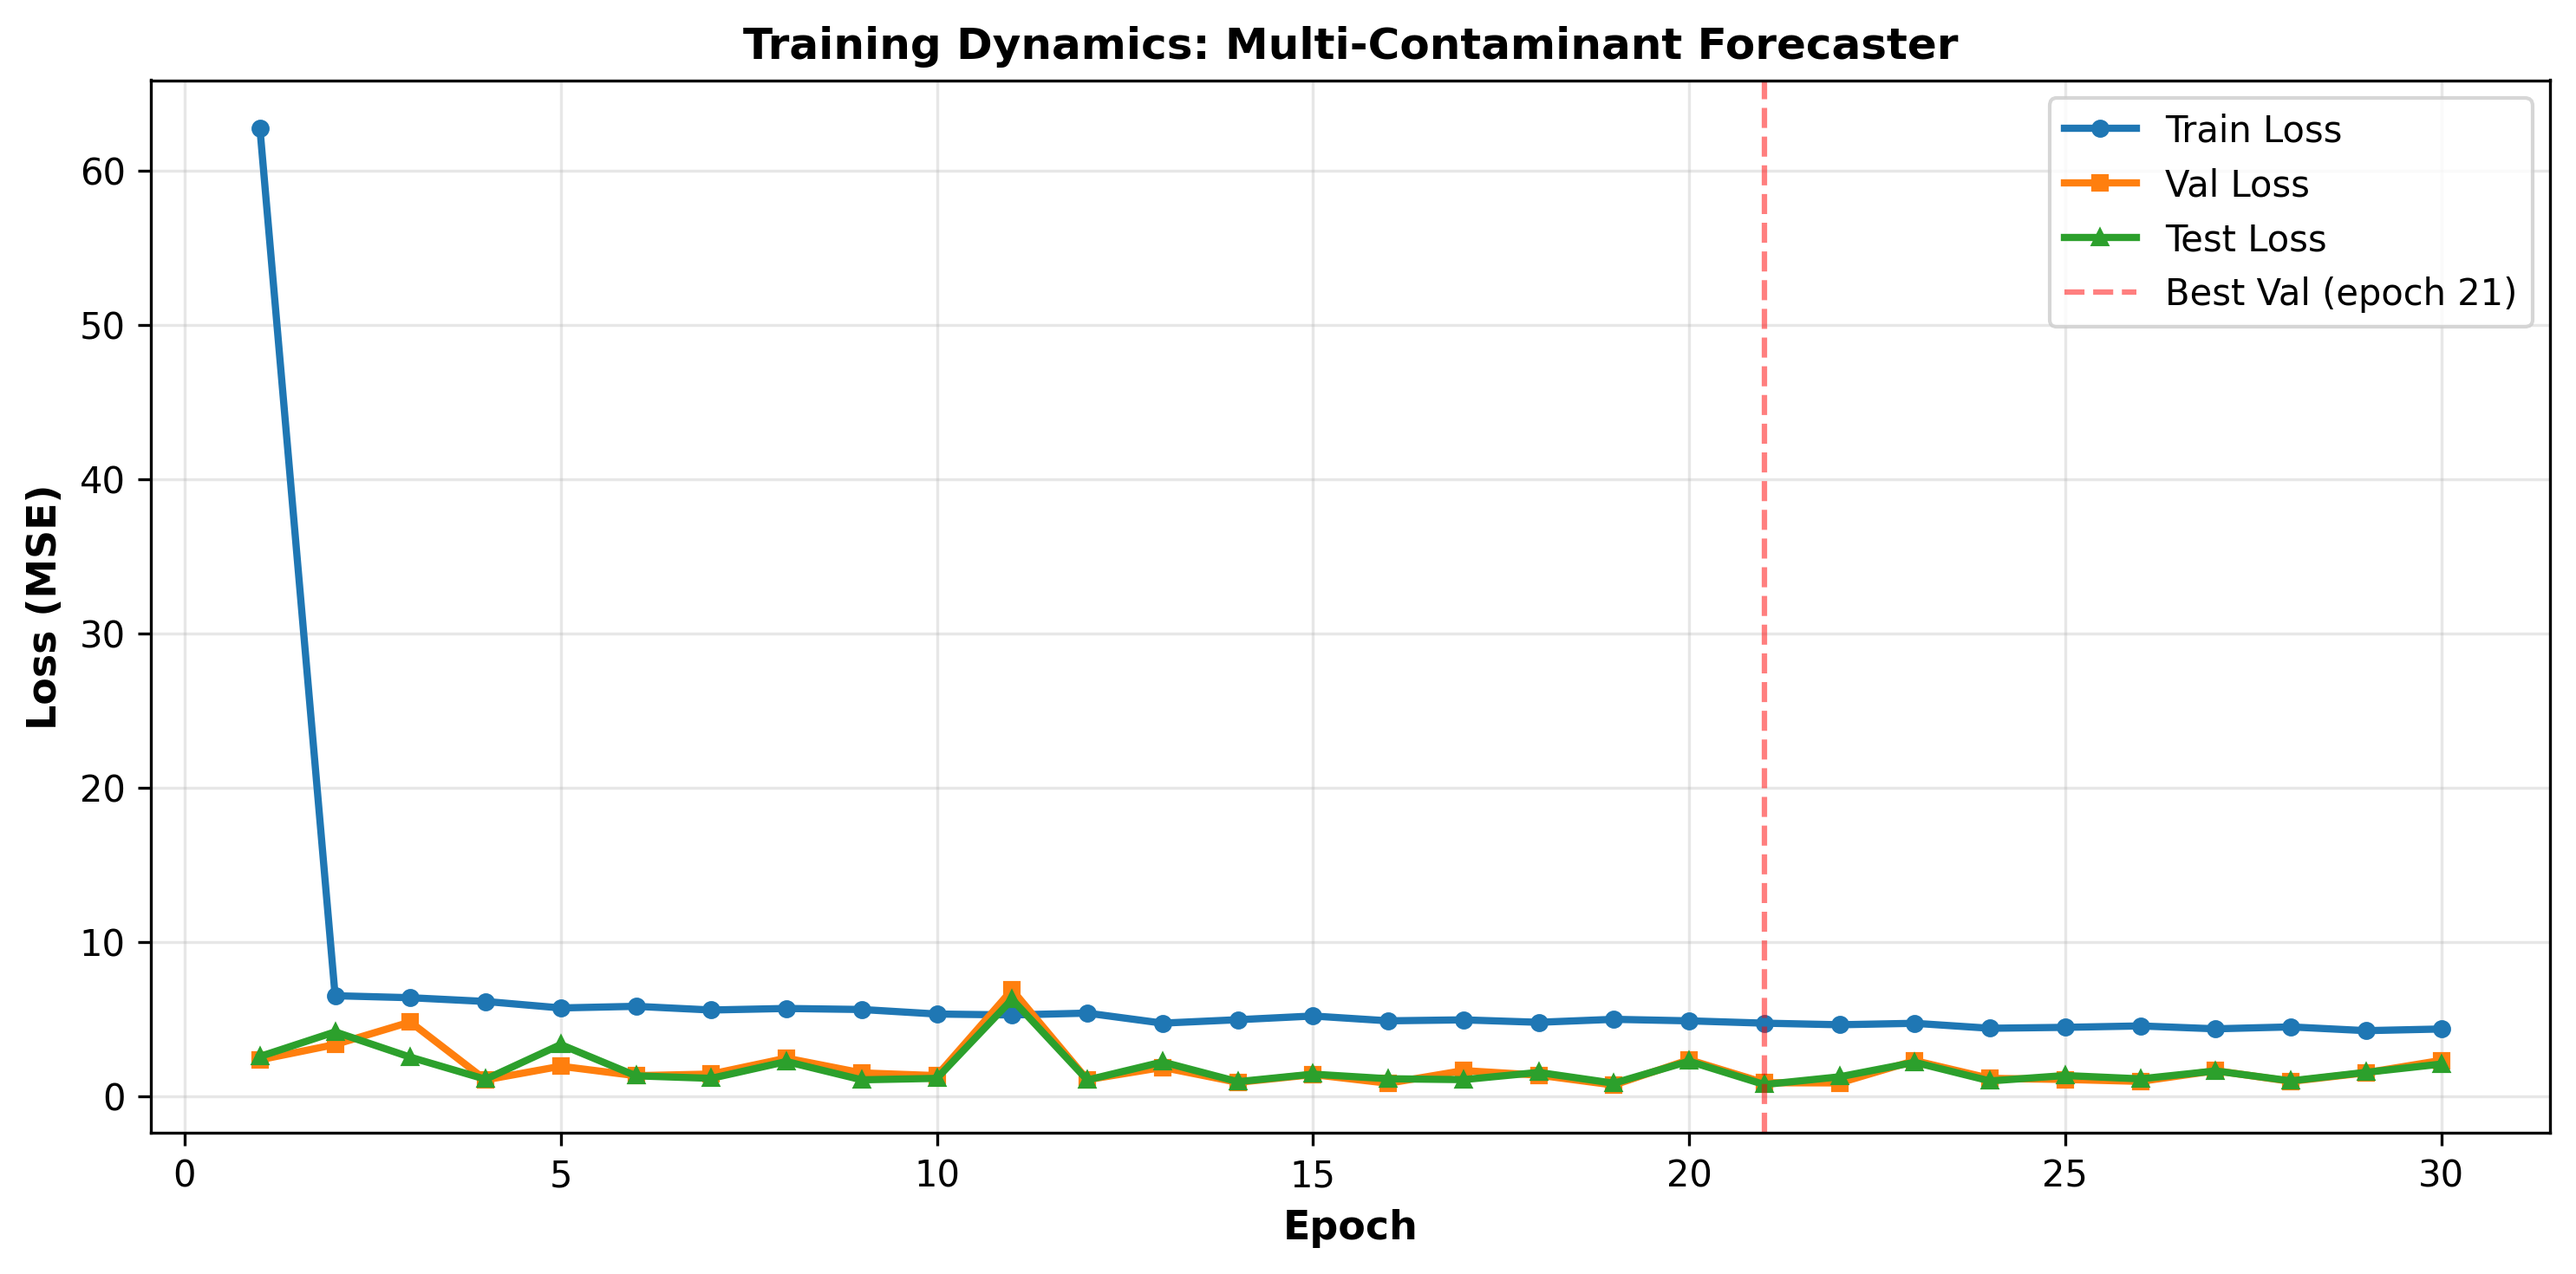
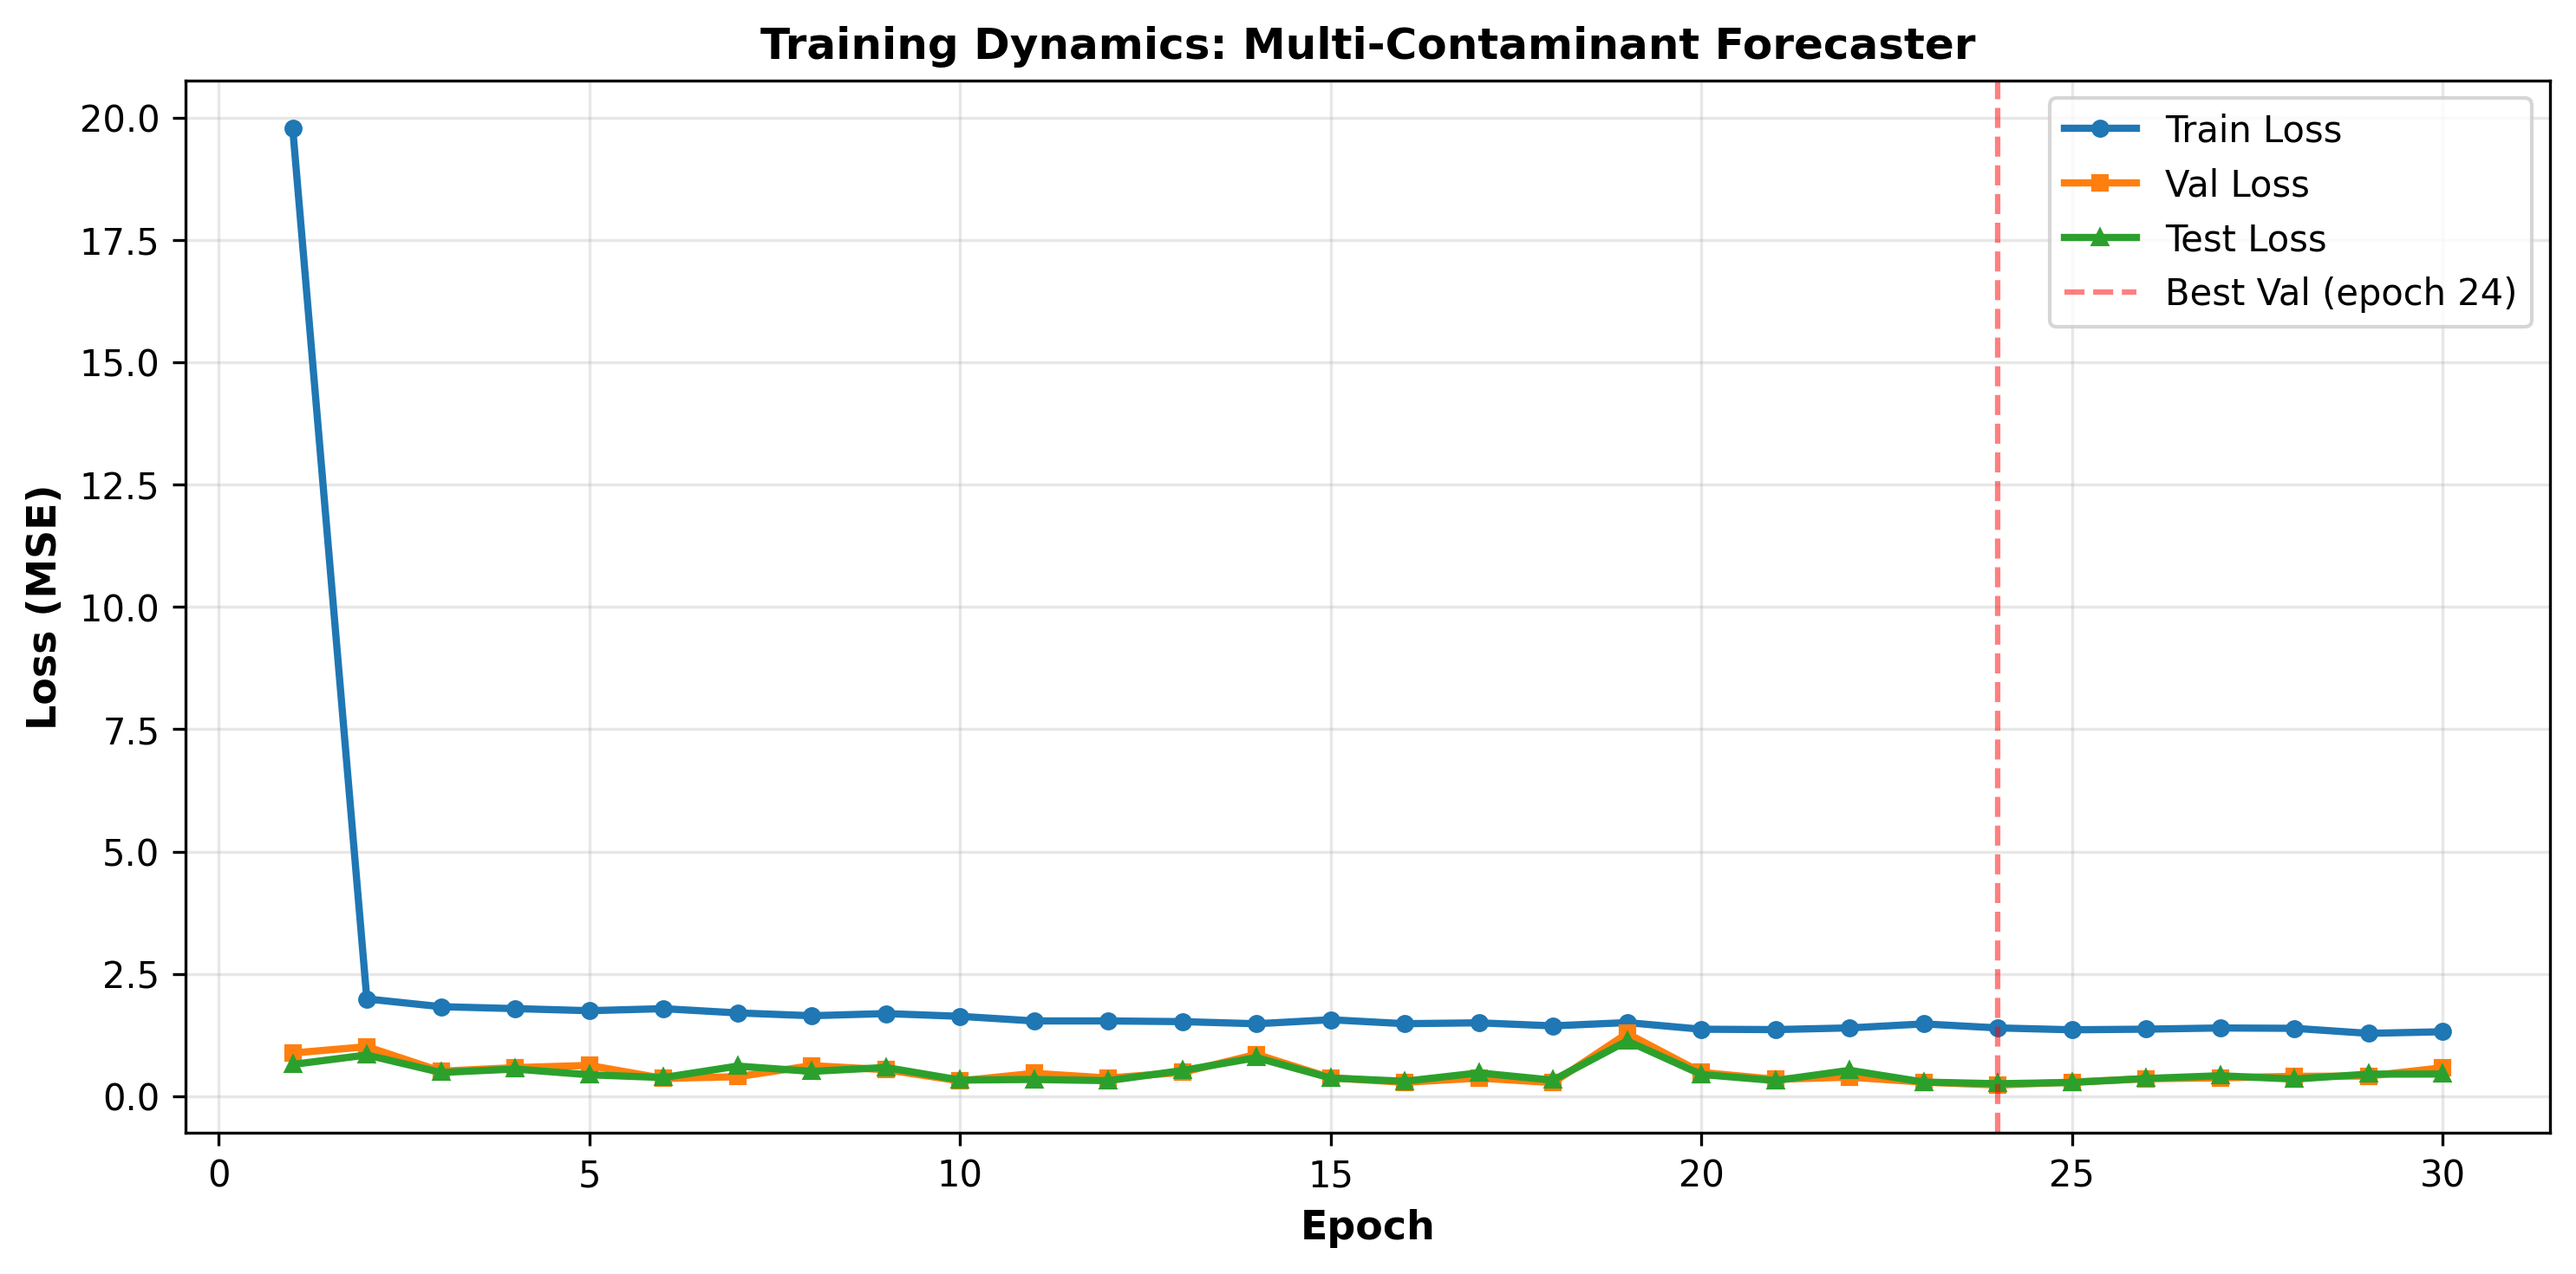
++ use 3 pollutants for backprop error

diff --git a/data.py b/data.py
@@ -78,7 +78,18 @@ def make_synthetic_watershed_multicontaminant(B: int, T: int, F: int, S: int, se
         y_q[:, k] = np.maximum(y_q[:, k], 0.0)
 
     # Irregular observations
+    # m_obs = (rng.random((B, T, 1)) < 0.1).astype(np.float32)
     m_obs = (rng.random((B, T, 1)) < 0.1).astype(np.float32)
+
+    # Apply missingness consistently to each contaminant (shared sampling pattern)
+    y_no3_nan = y_no3.copy()
+    y_p_nan   = y_p.copy()
+    y_q_nan   = y_q.copy()
+
+    y_no3_nan[m_obs[:, :, 0] < 0.5] = np.nan
+    y_p_nan[m_obs[:, :, 0] < 0.5]   = np.nan
+    y_q_nan[m_obs[:, :, 0] < 0.5]   = np.nan
+
 
     return {
         "X_dyn": X_dyn,
@@ -155,11 +166,25 @@ class SpatioTemporalMultiContaminantDataset(Dataset):
         
         y_hist_list = [torch.nan_to_num(self.y_dict[cont][b, t - L : t, :], nan=0.0) for cont in self.contaminants]
         y_hist_filled = torch.cat(y_hist_list, dim=-1)
-        m_hist = (torch.isnan(self.y_dict[self.contaminants[0]][b, t - L : t, :]).logical_not()).float()
+        # m_hist = (torch.isnan(self.y_dict[self.contaminants[0]][b, t - L : t, :]).logical_not()).float()
+        y_hist_list, m_hist_list = [], []
+        for cont in self.contaminants:
+            y_h = self.y_dict[cont][b, t-L:t, :]           # (L,1) with NaNs
+            m_h = (~torch.isnan(y_h)).float()              # (L,1)
+            y_hist_list.append(torch.nan_to_num(y_h, nan=0.0))
+            m_hist_list.append(m_h)
+
+        y_hist_filled = torch.cat(y_hist_list, dim=-1)     # (L,C)
+        m_hist = torch.cat(m_hist_list, dim=-1)            # (L,C)
+
 
         y_target_list = [torch.nan_to_num(self.y_dict[cont][b, t + H, :], nan=0.0) for cont in self.contaminants]
         y_target = torch.cat(y_target_list, dim=-1)
-        m_t = self.m_train[b, t + H, :]
+        # m_t = self.m_train[b, t + H, :]
+        # m_t = self.m_train[b, t + H, :].repeat(self.contaminants)  # (C,)
+        C = len(self.contaminants)
+        m_t = self.m_train[b, t + H, :].repeat(C)  # (C,)
+
 
         seq_in = torch.cat([x_dyn, y_hist_filled, m_hist], dim=-1)
 

diff --git a/main.py b/main.py
@@ -112,7 +112,10 @@ def main():
     print("CREATING MODEL")
     print("="*70)
     
-    f_in = F + len(cfg.contaminants) + 1
+    # f_in = F + len(cfg.contaminants) + 1
+    C = len(cfg.contaminants)
+    f_in = F + 2 * C
+
     model = SpatialGRUMultiContaminantForecaster(
         num_basins=B,
         f_in=f_in,
